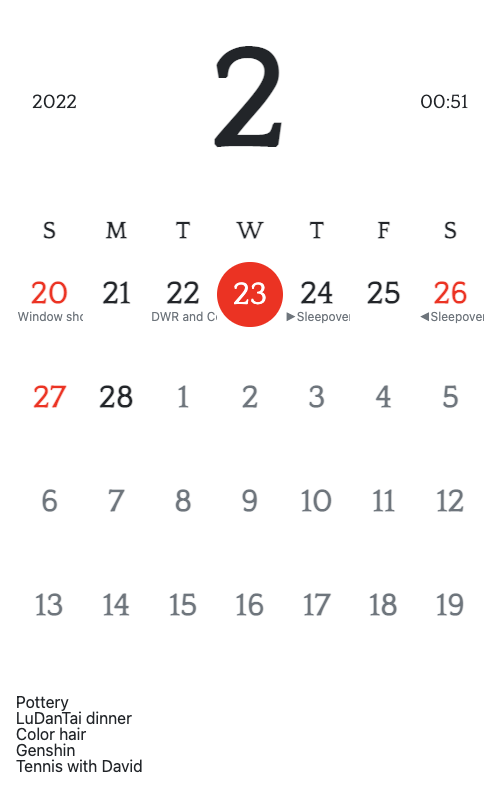
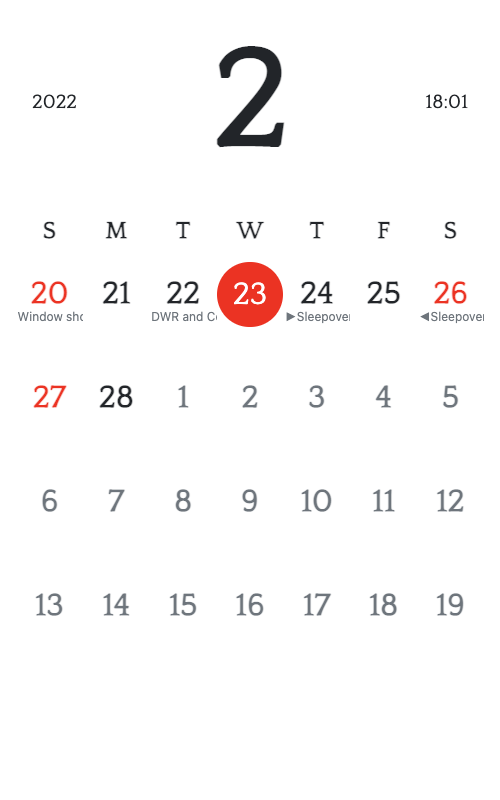
black circle filled while event is in progress

diff --git a/render/calendar.html b/render/calendar.html
@@ -12,7 +12,7 @@
              style="display:flex;justify-content:space-between;">
             <div class="time-info">2022</div>
             <h3 class="month font-weight-bold mb-0 text-uppercase">2</h3>
-            <div class="time-info">00:51</div>
+            <div class="time-info">18:01</div>
         </div>
         <!-- Days of week -->
         <ol class="day-names list-unstyled text-center">
@@ -115,7 +115,9 @@
                 <div class="date text-muted">19</div>
             </li>
         </ol>
-        <div class="event">Pottery<br>LuDanTai dinner<br>Color hair<br>Genshin<br>Tennis with David</div>
+        <div>
+            <img src="timeline.png" style='height: 100%; width: 100%; object-fit: contain'>
+        </div>
     </div>
 </div>
 </body>

diff --git a/render/calendar_template.html b/render/calendar_template.html
@@ -18,7 +18,9 @@
         <ol class="day-names list-unstyled text-center">{dayOfWeek}</ol>
         <!-- Calendar and events -->
         <ol class="days list-unstyled">{events}</ol>
-        <div class="event">{today}</div>
+        <div>
+            <img src="timeline.png" style='height: 100%; width: 100%; object-fit: contain'>
+        </div>
     </div>
 </div>
 </body>

diff --git a/timeline/timeline.py b/timeline/timeline.py
@@ -1,5 +1,6 @@
-import matplotlib.pyplot as plt
 from datetime import datetime
+
+import matplotlib.pyplot as plt
 from adjustText import adjust_text
 
 event_list = [
@@ -14,6 +15,7 @@ event_list = [
 # Constants
 GRAY = "#6c757d"
 TIMELINE_WIDTH = .75
+RED_TICK_SIZE = 15
 
 
 def military_to_minutes(time_in_military: str) -> int:
@@ -26,8 +28,16 @@ def is_complete(event: dict) -> dict:
     if military_to_minutes(current_time) >= military_to_minutes(event["end"]):
         # complete
         return {
-            "color": "#6c757d",
+            "color": GRAY,
             "markerfacecolor": GRAY,
+            "xy": .01
+        }
+    elif military_to_minutes(event["start"]) < military_to_minutes(current_time) and military_to_minutes(
+            current_time) <= military_to_minutes(event["end"]):
+        # in progress
+        return {
+            "color": "k",
+            "markerfacecolor": "k",
             "xy": .01
         }
     else:
@@ -50,7 +60,7 @@ ax.plot([0, 24 * 60], [0, 0], "-", color="k", linewidth=TIMELINE_WIDTH)
 ax.plot([0, military_to_minutes(current_time)], [0, 0], "-", color=GRAY, linewidth=TIMELINE_WIDTH)
 
 # Red tick for current time
-ax.plot(military_to_minutes(current_time), 0, "|", color="r")
+ax.plot(military_to_minutes(current_time), 0, "|", color="r", markersize=RED_TICK_SIZE)
 
 texts = []
 for event in event_list:
@@ -73,5 +83,5 @@ ax.spines[["left", "top", "right", "bottom"]].set_visible(False)
 ax.margins(y=0.1)
 
 adjust_text(texts, only_move={'points': 'y', 'text': 'y', 'objects': 'y'}, ha='left', va='bottom')
-# adjust_text(texts)
-plt.show()
+# plt.show()
+fig.savefig("timeline.png")

diff --git a/README.md b/README.md
@@ -1,7 +1,7 @@
 # MagInkCal
 
 # TODO:
-
+## Calendar
 - [x] year and time font need to be slightly smaller than the calendar day font
 - [ ] noto serif
 - [ ] roboto slab
@@ -10,9 +10,12 @@
 - [x] ocerflow in red, event in gray
 - [ ] multiday line in red
 - [ ] bullet point is all day event indicator for single day
+
+## Timeline
 - [x] thinner line for timeline line
 - [ ] text start aligns with dot
 - [ ] fix overlapping as it's not perfected yet
+- [x] filled black circle while event is going on
 
 This repo contains the code needed to drive an E-Ink Magic Calendar that uses a battery powered (PiSugar2) Raspberry Pi
 Zero WH to retrieve events from a Google Calendar, format it into the desired layout, before pushing it to a Waveshare
